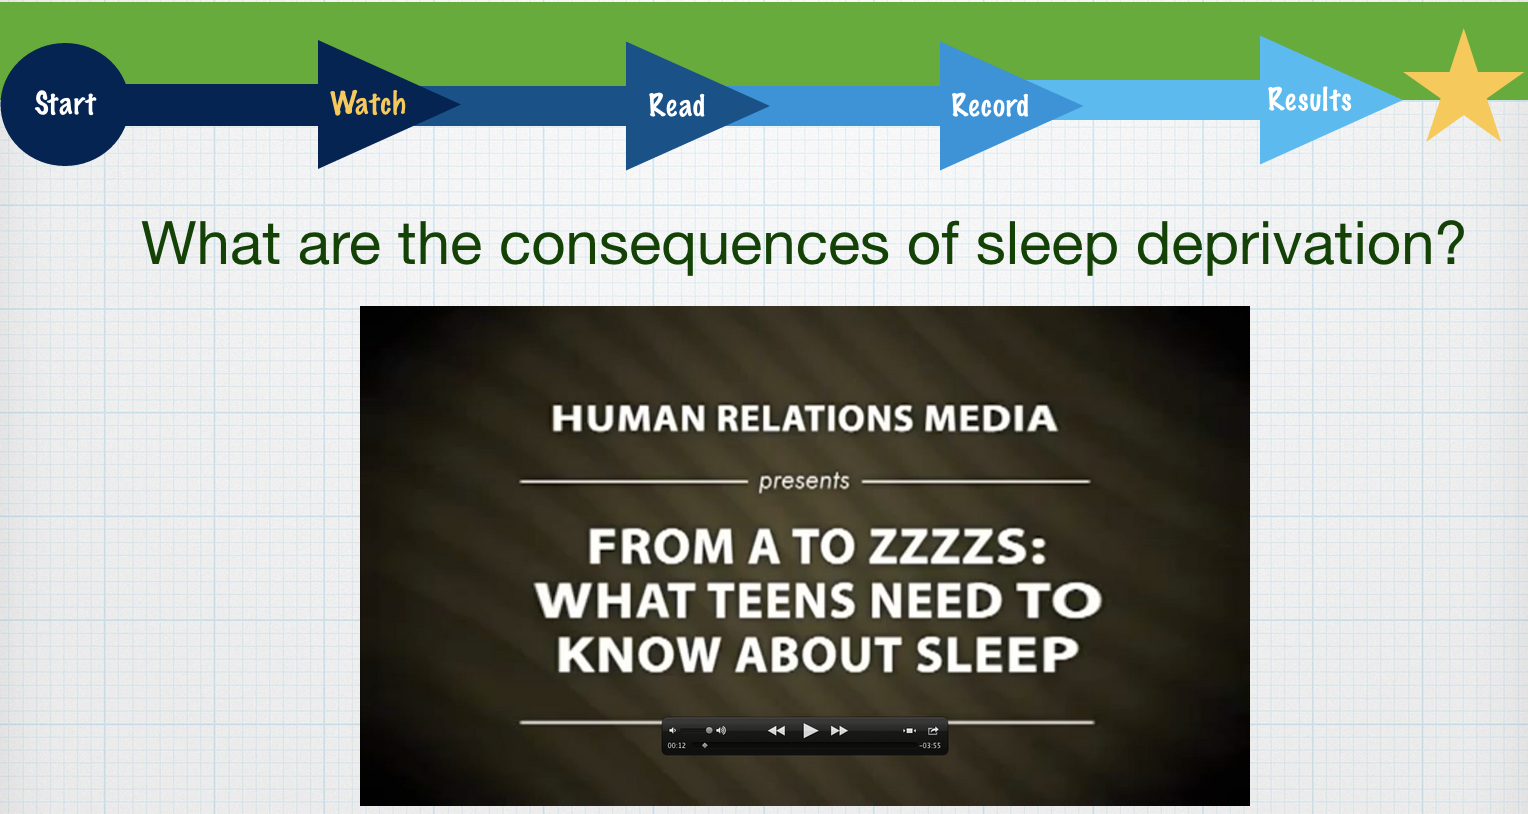
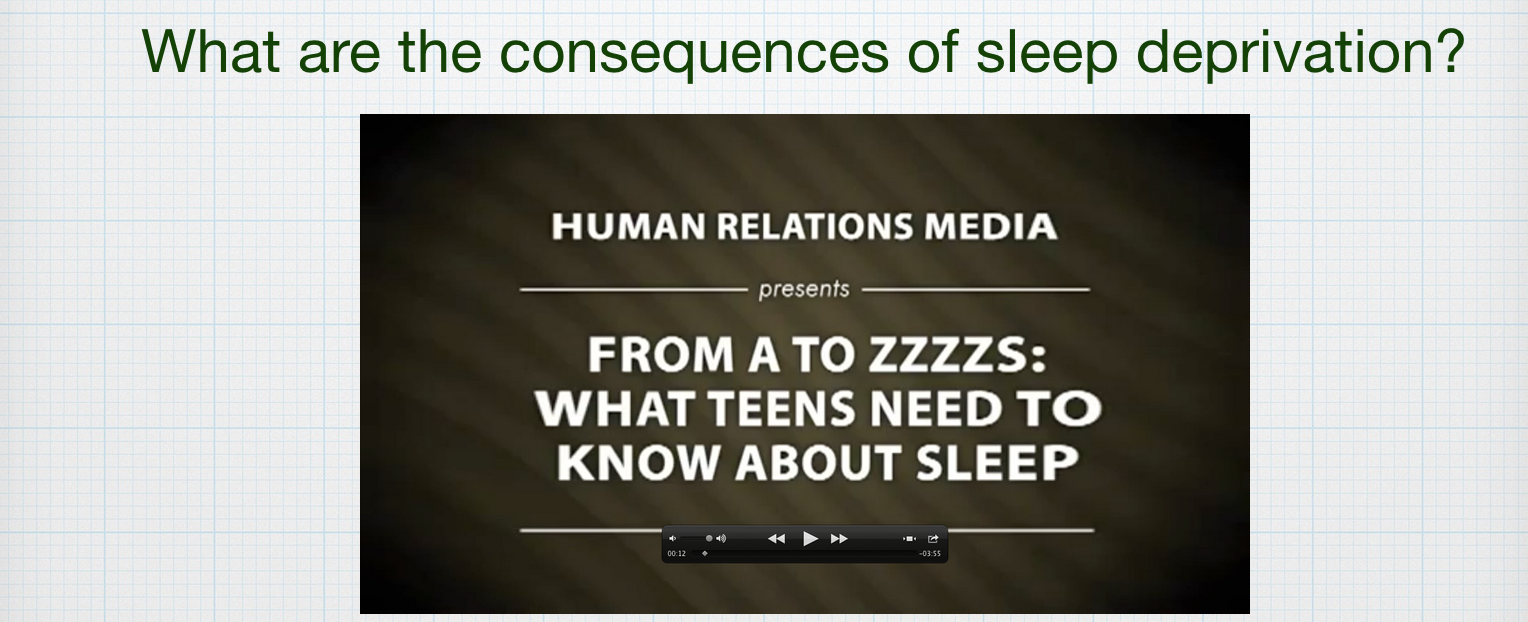
prompt text mockup

diff --git a/static/app/cdex.js b/static/app/cdex.js
@@ -111,6 +111,10 @@ cdexApp.config(['$routeProvider',
         controller: 'PromptController'
       }).
 
+      when('/prompt-text', {
+        templateUrl: 'app/partials/prompt-text.html',
+      }).
+
       when('/parser', {
         templateUrl: 'app/partials/parser.html',
         controller: 'ParserController'

diff --git a/static/app/partials/prompt-text.html b/static/app/partials/prompt-text.html
@@ -6,7 +6,7 @@
 
 <div class="row" style="text-align:center;">
 	<a href="#parser">
-		<img src="/img/mocks/prompt.png" />
+		<img src="/img/mocks/prompt-text.png" />
 	</a>
 	<a href="#parser" class="button">Rock your Voice!</a>
 </div>
